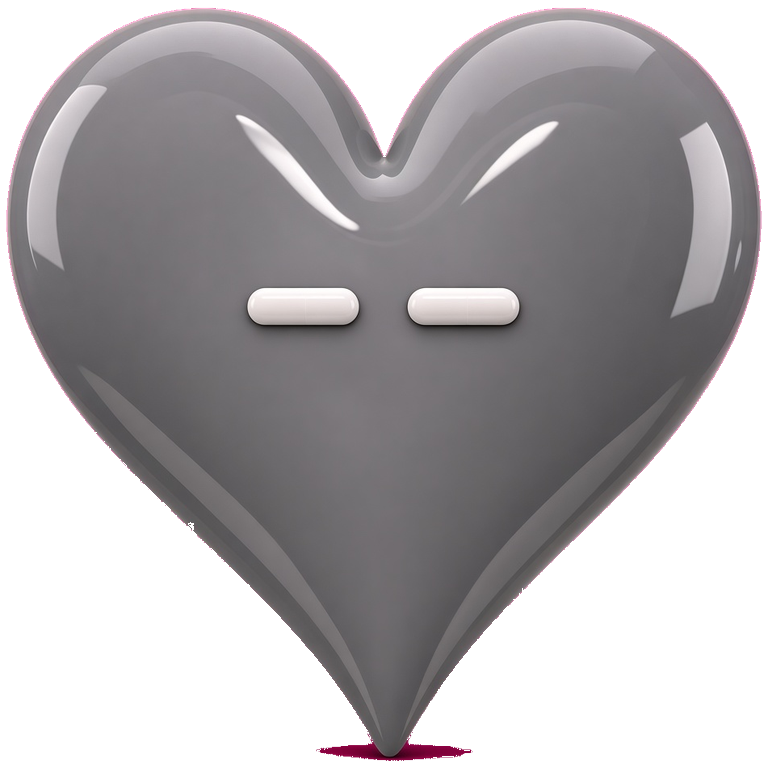
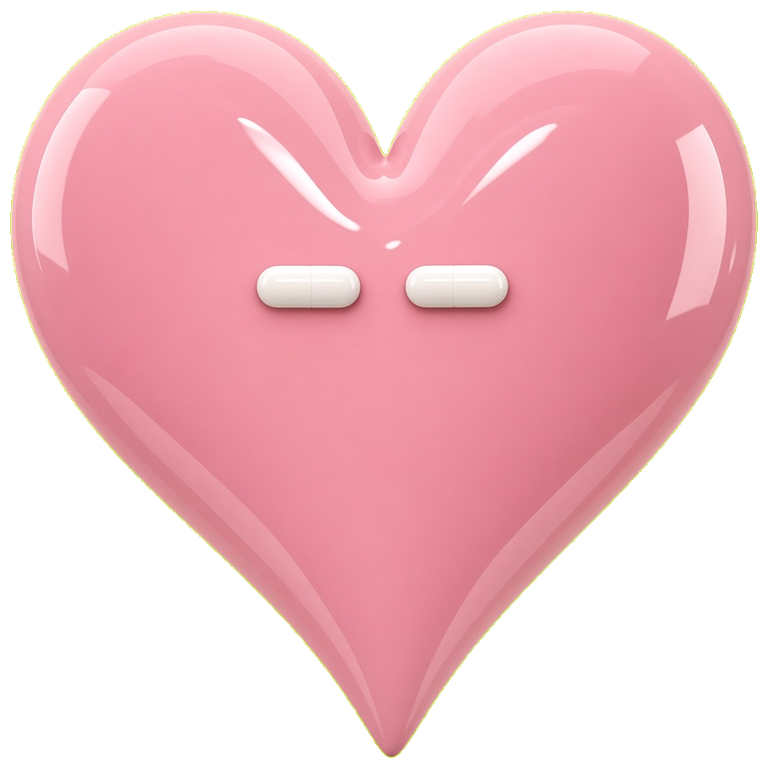
Install the picked 11 Grot sprites in a rising size order
Cream, orange, pink, gold, red bean, heart, yellow cloud,
cyan clover, orange clover, charcoal, then the black Grok.
Radii step up more clearly with each merge.

diff --git a/src/grotmerge/engine.ts b/src/grotmerge/engine.ts
@@ -7,15 +7,15 @@ export const LS_BEST = 'grot-bot-merge-best'
 export const TIERS = [
   { name: 'Pip', color: '#f3ead8' },
   { name: 'Spark', color: '#f97316' },
-  { name: 'Bolt', color: '#4ade80' },
-  { name: 'Pulse', color: '#84cc16' },
-  { name: 'Hum', color: '#2dd4bf' },
-  { name: 'Glow', color: '#38bdf8' },
-  { name: 'Orbit', color: '#7c3aed' },
-  { name: 'Nova', color: '#8b5cf6' },
-  { name: 'Quasar', color: '#e11d8a' },
-  { name: 'Core', color: '#eab308' },
-  { name: 'Grot', color: '#f4f4f5' },
+  { name: 'Pop', color: '#ec4899' },
+  { name: 'Gold', color: '#eab308' },
+  { name: 'Bean', color: '#ef4444' },
+  { name: 'Heart', color: '#f9a8d4' },
+  { name: 'Cloud', color: '#facc15' },
+  { name: 'Bloom', color: '#22d3ee' },
+  { name: 'Clover', color: '#fb923c' },
+  { name: 'Stone', color: '#52525b' },
+  { name: 'Grot', color: '#18181b' },
 ] as const
 
 export type Phase = 'title' | 'play' | 'over'
@@ -71,8 +71,10 @@ export type Game = {
   lastMerge: number
 }
 
+const RADII = [16, 20, 25, 31, 38, 47, 58, 70, 84, 100, 118]
+
 function radius(tier: number, scale: number) {
-  return (18 + tier * 0.4) * Math.pow(1.2, tier) * scale
+  return RADII[tier] * scale
 }
 
 function pickDrop() {
